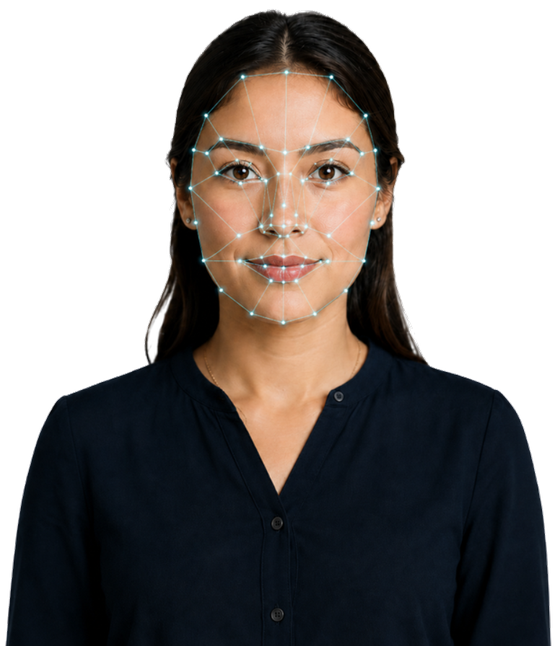
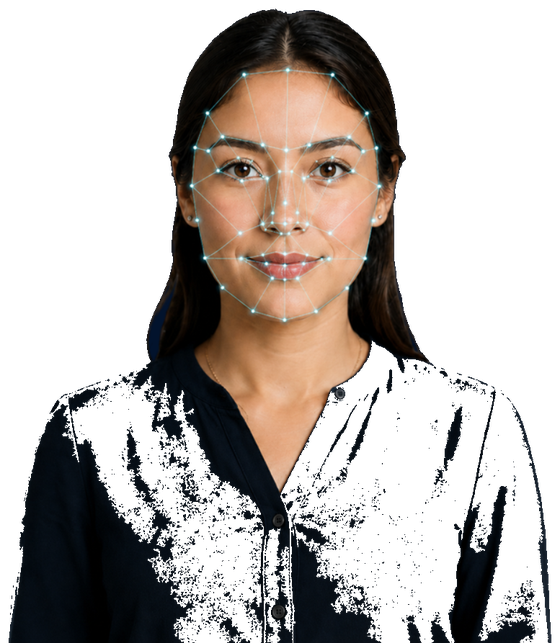
fix(home): actualizar foto del escáner con la versión de Canva
Reemplaza public/images/hero/biometric-verification.png con la nueva
versión que el cliente actualizó en Canva (mismo diseño, fondo ya en
navy). Se ajusta el alto intrínseco del <Image> a las nuevas dimensiones.

diff --git a/src/components/HomepageHero.tsx b/src/components/HomepageHero.tsx
@@ -291,7 +291,7 @@ export default function HomepageHero() {
                           src="/images/hero/biometric-verification.png"
                           alt=""
                           width={560}
-                          height={646}
+                          height={643}
                           priority
                           className="w-auto object-contain"
                           style={{ height: "192px" }}
